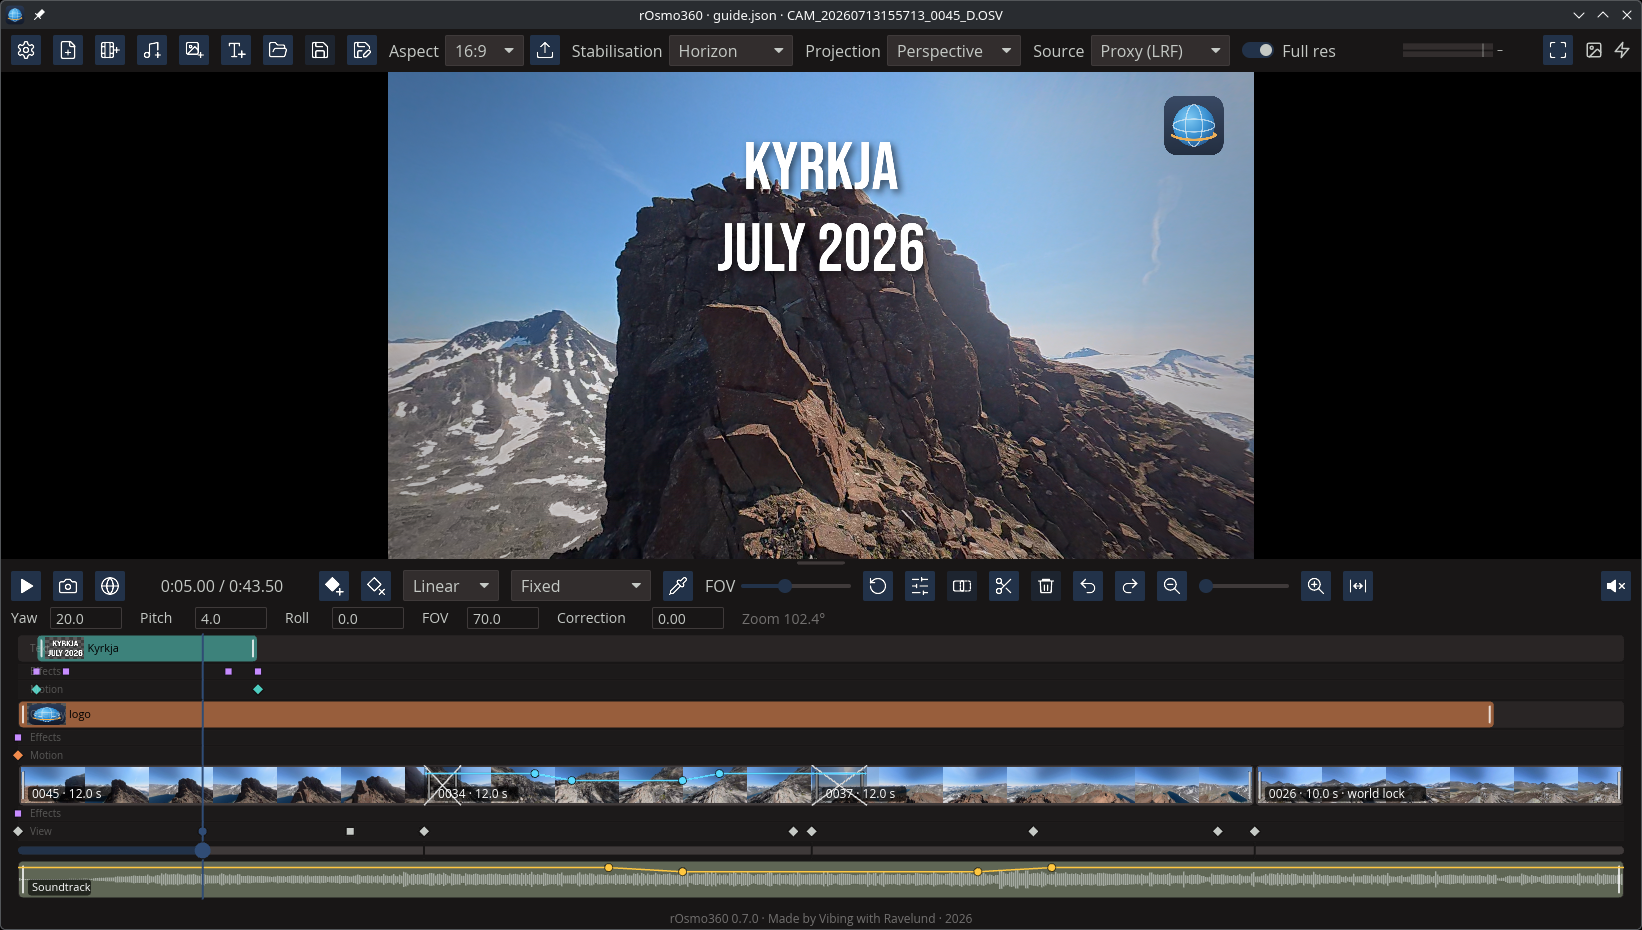
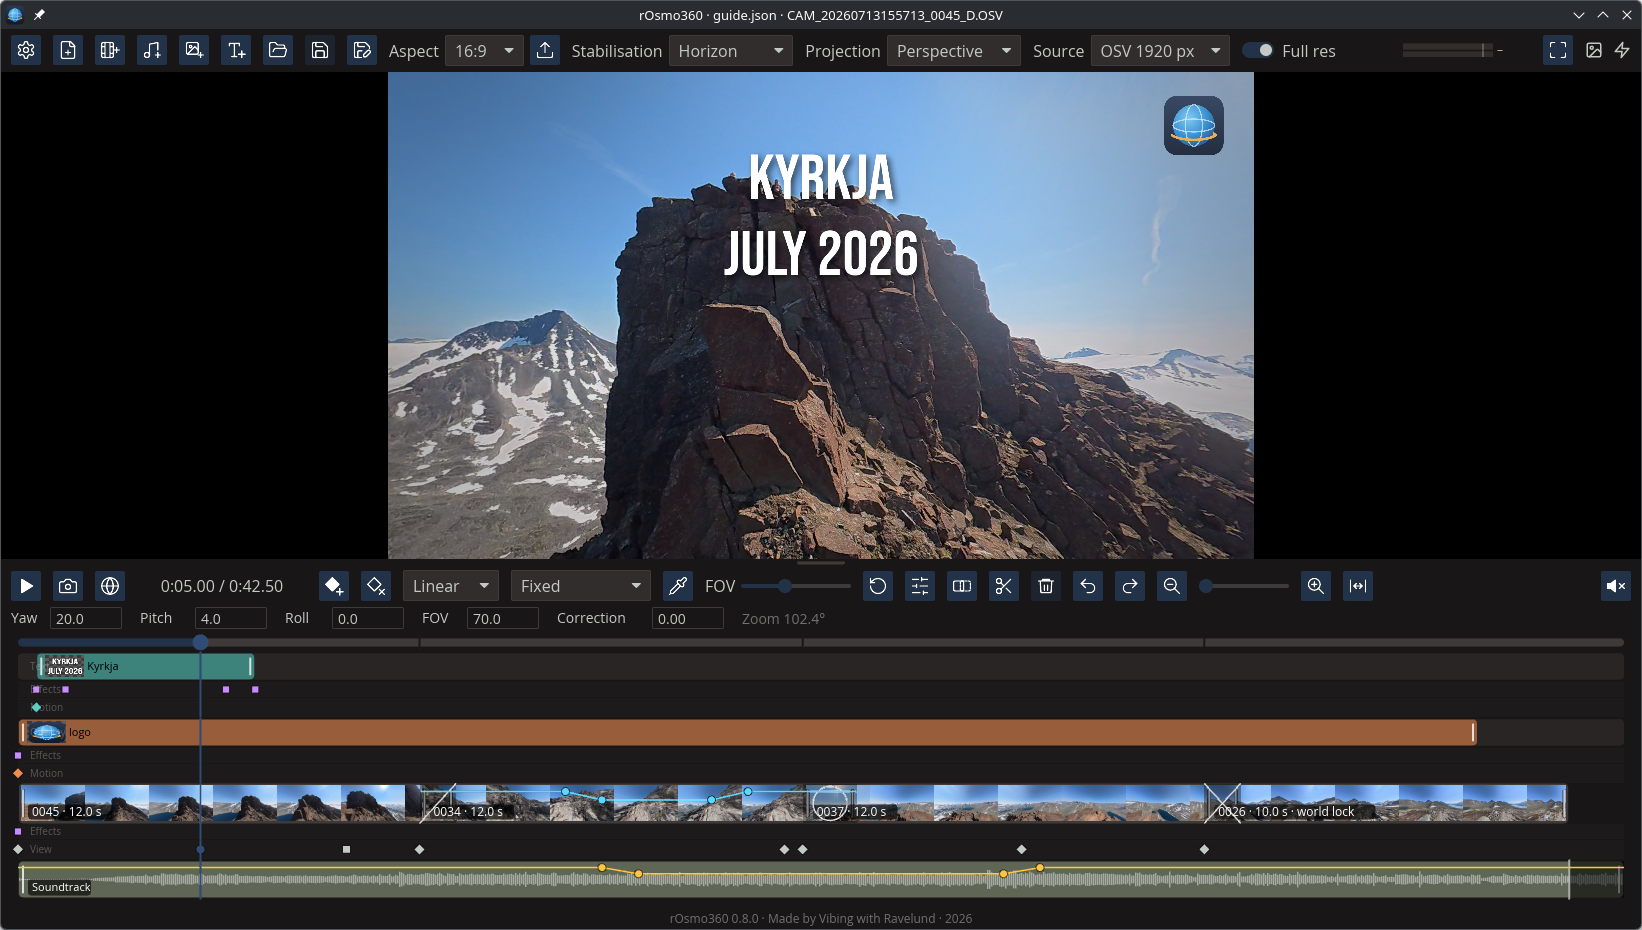
Guide: the screenshots for 0.8.0
The seek bar moved to the top of the timeline and each overlap carries
its transition's mark, so every picture showing the timeline was out of
date: the editor, the README's screenshot, the timeline, its zoomed view
and the keyframe-ease shot. The Export panel gained Frame rate and Test
features, the transport row's crossfade button became transitions, and
the Transitions panel had no picture.

Shot from the same demo edit as before with a wipe on cut 2 and a spin
on cut 3, so the timeline shows three different marks; the release
build with zero-copy, so the Export panel is what the release shows.
Captions follow what the pictures now show.

Claude-Session: https://claude.ai/code/session_01Eby9C3cDwrrozo5M1Jq3Fa

diff --git a/docs/user-guide.md b/docs/user-guide.md
@@ -74,7 +74,7 @@ The first clip starts playing as soon as it has loaded; the others load behind i
 
 ## 2. The window
 
-![The rOsmo360 editor: a rock tower under the title "Kyrkja, July 2026" with a small logo in the corner, and underneath the transport row, the view angles (Yaw 20, Pitch 4, Roll 0, FOV 70, Correction 0) and the timeline: a Text and an Overlay lane, four cuts with crossfades between them, their keyframe rows, the seek bar and a soundtrack lane with its waveform](guide/editor.jpg)
+![The rOsmo360 editor: a rock tower under the title "Kyrkja, July 2026" with a small logo in the corner, and underneath the transport row, the view angles (Yaw 20, Pitch 4, Roll 0, FOV 70, Correction 0) and the timeline: the seek bar, a Text and an Overlay lane, four cuts with a transition between each, their keyframe rows and a soundtrack lane with its waveform](guide/editor.jpg)
 
 From top to bottom:
 
@@ -100,7 +100,7 @@ From top to bottom:
 
 5. **The timeline**, from the top: the seek bar, the **Text** lane and the **Overlay** lane (once they have something in them, each with its own keyframe rows), the cuts of your edit with thumbnails, their **Effects** and **View** keyframe rows, and the music lane.
 
-   ![The timeline: a teal title block on the Text lane and an orange logo block on the Overlay lane, each with Effects and Motion rows; four cuts with thumbnails and labels such as "0045 · 12.0 s" and "0026 · 10.0 s · world lock", crossed boxes where cuts crossfade and a light-blue sound line; the Effects and View rows with keyframe marks; the seek bar; and a green soundtrack lane with its waveform and an orange volume line](guide/timeline.png)
+   ![The timeline: the seek bar along the top with the playhead running down through every lane; a teal title block on the Text lane and an orange logo block on the Overlay lane, each with Effects and Motion rows; four cuts with thumbnails and labels such as "0045 · 12.0 s" and "0026 · 10.0 s · world lock", a mark over each overlap (a diagonal for a wipe, a ring for a spin, an X for a dissolve) and a light-blue sound line; the Effects and View rows with keyframe marks; and a green soundtrack lane with its waveform and an orange volume line](guide/timeline.png)
 
    On the cuts, a mark over an overlap is a transition (an **X** for a crossfade; see [Transitions](#8-transitions-and-crossfades)) and a light-blue line a cut's own sound level. Each track's keyframes sit in faint rows under it, named at the left: **View** for the camera's keyframes (see [Keyframes](#7-keyframes-moving-the-camera)), **Effects** for colour ([Effects](#10-effects-colour-opacity-and-fades)), and **Motion** for where an overlay is ([Titles and overlays](#11-titles-and-overlays)). Click a mark to jump to it, and drag it to move it to another moment. In the music lane, the orange line is the music's volume.
 
@@ -211,7 +211,7 @@ With a long edit, short cuts and close keyframes get narrow. Zoom in:
 - **Ctrl+=** / **Ctrl+−**, or the magnifier icons and the slider between them, zoom around the playhead.
 - **Ctrl+0**, or the arrows-to-both-ends icon, shows the whole edit again.
 
-![The timeline zoomed in on the end of the first cut and the start of the second: rock thumbnails, the crossfade's X, the second cut's light-blue sound line, the View row's keyframe marks, the seek bar, and a scrollbar underneath](guide/timeline-zoomed.png)
+![The timeline zoomed in on the end of the first cut and the start of the second: the seek bar at the top, rock thumbnails, a wipe's diagonal over the overlap, the second cut's light-blue sound line, the View row's keyframe marks, and a scrollbar underneath](guide/timeline-zoomed.png)
 
 When zoomed in, a scrollbar appears at the bottom of the timeline. Drag it, use Shift+scroll, or scroll sideways on a touchpad to move along. While playing, the timeline scrolls along to keep the playhead in sight.
 
@@ -299,6 +299,8 @@ A transition takes one cut into the next over a moment, picture and sound togeth
 
 Select the later of the two cuts and click **transitions** (two overlapping frames) in the transport row, or press **T**: the Transitions panel opens at the left of the view. With no cut selected it shows the cut that's playing. Each style is an icon; hover over one for its name.
 
+![The Transitions panel for cut 2, a wipe, with a ✕ to close it: two rows of style icons (none, dissolve, dip to black, dip to white; wipe, push, slide, spin) with wipe chosen; Direction, four arrows with right chosen; Length, a slider at 1.00 s; and the to-all-cuts icon](guide/transitions-panel.png)
+
 - **None**: a plain cut.
 - **Dissolve**: the first cut fades into the second (the crossfade).
 - **Dip to black**, **Dip to white**: the first cut fades out to black or white and the second fades in from it.
@@ -312,7 +314,7 @@ Picking a style gives the cut a 1 second transition. Wipe, push, slide and spin 
 - **Make it longer or shorter on the timeline**: hold **Shift** and drag the later cut's left edge. Further left is a longer transition, back right a shorter one. (Without Shift, the same drag trims the cut.) On a plain cut this makes a dissolve.
 - On the timeline the overlap is darkened and carries its style's mark: an **X** for a dissolve, a V for a dip (down to black, up to white), one diagonal for a wipe, an arrowhead for a slide and two for a push, a ring for a spin.
 
-![The timeline zoomed in: the second cut overlapping the end of the first, with an X over the overlap, and the soundtrack lane below](guide/timeline-zoomed.png)
+![The timeline zoomed in: the second cut overlapping the end of the first, with a wipe's diagonal over the overlap, and the soundtrack lane below](guide/timeline-zoomed.png)
 
 The edit gets shorter by each transition, since the cuts overlap. No extra footage is needed: it uses the end of the first cut and the start of the second, as you trimmed them. It can't be longer than either cut allows, and trimming a cut shorter shortens its transition to fit. The first cut has none, as nothing comes before it.
 
@@ -508,7 +510,7 @@ A project starts playing as soon as its first cut's clip has loaded; the others 
 
 Click **export** (an arrow out of a tray) in the top bar, or press **Ctrl+E**, for the **Export panel** at the right of the view.
 
-![The Export panel: Resolution 1080p; Format MP4 or DaVinci Resolve, each with a note; Clips, "A file per cut"; what the export will make, "1920 × 1080, 0:43.50", in the aspect's shape; and the Export… button](guide/export-panel.png)
+![The Export panel: Resolution 1080p; Frame rate, As filmed; Format MP4 or DaVinci Resolve, each with a note; Clips, "A file per cut"; what the export will make, "1920 × 1080, 0:42.50", in the aspect's shape; the Export… button; and Test features, with the Zero-copy decoding switch and its note](guide/export-panel.png)
 
 1. **Resolution**: 720p, 1080p (the default, good for sharing online), 1440p or 2160p (4K). It's the short side of the picture, so 1080p is 1920 × 1080 for 16:9, or 1080 × 1920 for 9:16. The shape comes from the **Aspect** picker in the top bar, 16:9 when it's Free; the panel says what you'll get.
 2. **Frame rate**: **As filmed** keeps the clips' own rate (an edit of clips at different rates takes its first Osmo clip's). Or pick 24, 25, 30, 50, 60 or 100 frames a second: frames are dropped or repeated to it, and nothing changes speed. Clips filmed at 100 fps export about three times as fast at 30, as there's a third of the frames to stitch. A rate close to the clips' own but not equal (30 for clips filmed at 29.97) repeats a frame every half minute or so; As filmed avoids that.

diff --git a/CLAUDE.md b/CLAUDE.md
@@ -6,7 +6,7 @@ A Rust/Linux replacement for DJI Studio's playback of DJI Osmo 360 `.OSV` footag
 
 The tool is called **rOsmo360** (the r is for its Rust core); the window title, app id and `--help` use that name. The crate and binary are `rosmo360` (renamed from `osmo360` on 2026-10-10).
 
-## Status (2026-11-15: 0.8.0 released: transitions (item 14), the export's frame rate and zero-copy decoding as a Linux test feature in the release builds (items 15 and 1); the guide's screenshots for it are still to retake (the timeline's seek bar moved, the Transitions and Export panels; the user was on RDP, where the uinput keyboard doesn't reach the player); 2026-11-14: 0.7.2 released: a whole-code audit's fixes (export sync, odd-sized pictures on the GPU, lost messages and edits, thumbnails on ffmpeg 4.4; item 12) and the fine seam alignment as a test feature (item 13); 2026-10-21: 0.7.1 released: mixed frame rates (a 100 fps Osmo cut in a 30 fps edit ran 3.3× slow; frames now picked on time); 0.7.0 released the same day: typed view angles with correction, the timeline divider, 100 fps clips (PR #5), Windows as a beta zip; 2026-10-15: 0.6.0 released: the code audit's fixes, LUTs and D-Log M, exposure roll-off; 0.5.0 released 2026-10-14: panels, the Mac, 10-bit and HDR, Kanagawa theme (0.4.0 was skipped as a release); 0.3.0 released 2026-10-13: ordinary videos, photos, titles and overlays)
+## Status (2026-11-15: 0.8.0 released: transitions (item 14), the export's frame rate and zero-copy decoding as a Linux test feature in the release builds (items 15 and 1); the guide's screenshots for it retaken the same evening, once the user was at the machine: editor, README screenshot, top bar, transport, view angles, timeline, timeline-zoomed, keyframe-ease, the Export panel and a new transitions-panel.png; 2026-11-14: 0.7.2 released: a whole-code audit's fixes (export sync, odd-sized pictures on the GPU, lost messages and edits, thumbnails on ffmpeg 4.4; item 12) and the fine seam alignment as a test feature (item 13); 2026-10-21: 0.7.1 released: mixed frame rates (a 100 fps Osmo cut in a 30 fps edit ran 3.3× slow; frames now picked on time); 0.7.0 released the same day: typed view angles with correction, the timeline divider, 100 fps clips (PR #5), Windows as a beta zip; 2026-10-15: 0.6.0 released: the code audit's fixes, LUTs and D-Log M, exposure roll-off; 0.5.0 released 2026-10-14: panels, the Mac, 10-bit and HDR, Kanagawa theme (0.4.0 was skipped as a release); 0.3.0 released 2026-10-13: ordinary videos, photos, titles and overlays)
 
 Working and verified on real footage:
 
@@ -219,7 +219,7 @@ Not done yet, roughly in priority order:
     `transition.rs`: `Cut::transition` (JSON `"transition"`: `dissolve` (the default, left out), `dip-black`, `dip-white`, `wipe-`/`push-`/`slide-left|right|up|down`, `spin-left|right`) says how the cut comes in through its `crossfade` overlap; the sound crossfades whatever it is. Each style is two layers, the outgoing cut under the incoming one, a `Part` each (offset, alpha, dip and its colour, a wipe's soft line): `Transition::parts(p)`. The export mixes its two frames by them (`Transition::mix`, called by `Dissolve`, which now takes the transition per cut); the player's shader draws its two layers by them (uniform `trans`; the second layer's pipeline blends by the alpha the shader gives, no longer a blend constant; `Pipeline::prepare_pair`, and `Incoming::under` draws the partner first when the incoming cut is the current one). Offsets are rounded to whole pixels on both sides. `gpu_transitions_match_the_cpu`: every 2D style and direction at 0.3 and 0.7, either cut current, within 2 levels.
     Spin is in the camera, not the mix: `Transition::spin(p, seconds)` gives each cut a yaw and a blur (the outgoing camera turns 360° × p², the incoming arrives from −360° × (1 − p)², equal speed at the middle where a short dissolve (0.35-0.65) hands over; blur = speed × a 0.04 s shutter). `Camera::spun` turns `user` about the view's yaw (an ordinary video's crop moves instead, `FLAT_DEGREES` to a picture height) and `Camera::blur` is drawn as `transition::TAPS` (16) views: the shader loops `picture(p, a)` with per-pixel jitter (`trans[3].y`), the CPU averages whole renders (`Camera::taps`, `stitch::average`; no jitter). `project::spun` applies it in the export (whole edit only; a file per cut has none) and the player applies it only while both layers are drawn (a cut shown alone to frame it is as framed). With the Transitions panel open a paused, selected cut is not drawn alone (`partner_layer`): the user selected a cut to set its transition, scrubbed, and saw none (2026-11-15). `preview` sheets show no spin.
     Player: `player/transitions.rs`, the Transitions panel at the left (T, or the transport row's button, which used to toggle a 1 s crossfade and stays where it was: user, 2026-11-15; its choices are icon buttons with hints, `transitions::choice`, the chosen one primary and the rest on the theme's weak background, after the user called the first version's grey text buttons against the tool's design, 2026-11-15; Info, Settings, Transitions, Text win the left in that order; Settings and Transitions close each other): None and the seven styles, Direction, Length (a drag one undo step, `Edit::most_crossfade`), To all cuts. `check`'s crossfade rule speaks only of dissolves.
-    Also in 0.8.0 (user, 2026-11-15: "moving the scrubber bar to over the text layer is a good idea"): the seek bar is `timeline::SeekBar`, a canvas of its own at the top of the timeline, above the Text lane; the main canvas has no seek row (`Rows::seek_top` is where the keyframe rows end and the music begins). The guide's timeline screenshots (editor, timeline, timeline-zoomed) still show it between the keyframe rows and the music: retake them.
+    Also in 0.8.0 (user, 2026-11-15: "moving the scrubber bar to over the text layer is a good idea"): the seek bar is `timeline::SeekBar`, a canvas of its own at the top of the timeline, above the Text lane; the main canvas has no seek row (`Rows::seek_top` is where the keyframe rows end and the music begins). The guide's screenshots show it there since 2026-11-15.
     On the timeline each overlap carries its style's mark (`timeline::transition_mark`: X dissolve, V a dip with its edge underlined, one diagonal a wipe, an arrowhead a slide, two a push, a ring a spin); not yet seen on screen by the user.
     Measured: a 9-cut edit of 0037 and 0043 with every style exports 14.5 s on the GPU (13 fps overall: nine short cuts, each a decoder start); GPU vs CPU through a spin 40.5 dB (worst frame 38.1), through a push 39.8 (38.1). Test projects in the session scratchpad (`trans/t.json`).
 

diff --git a/README.md b/README.md
@@ -2,7 +2,7 @@
 
 A 360° video player and editor for **DJI Osmo 360** footage, written in Rust. It plays the camera's `.OSV` files directly: it stitches the two fisheye lenses, stabilises with the camera's gyro data and lets you look around freely, without going through DJI Studio. Then you can cut clips together on a timeline, with ordinary videos and photos beside them, keyframe the camera's view, add transitions, music, colour effects, titles and logos, and export a framed video.
 
-![rOsmo360 editing a mountain hike: a rock tower under the title "Kyrkja, July 2026" with a small logo in the corner, and below it the view angles and the timeline: a text lane and an overlay lane, cuts from four clips with crossfades, thumbnails and keyframe rows, and a soundtrack lane with its waveform and volume line](docs/screenshot.png)
+![rOsmo360 editing a mountain hike: a rock tower under the title "Kyrkja, July 2026" with a small logo in the corner, and below it the view angles and the timeline: a text lane and an overlay lane, cuts from four clips with transitions between them, thumbnails and keyframe rows, and a soundtrack lane with its waveform and volume line](docs/screenshot.png)
 
 **New here? Read the [user guide](docs/user-guide.md)**: the whole app, step by step, with screenshots.
 
